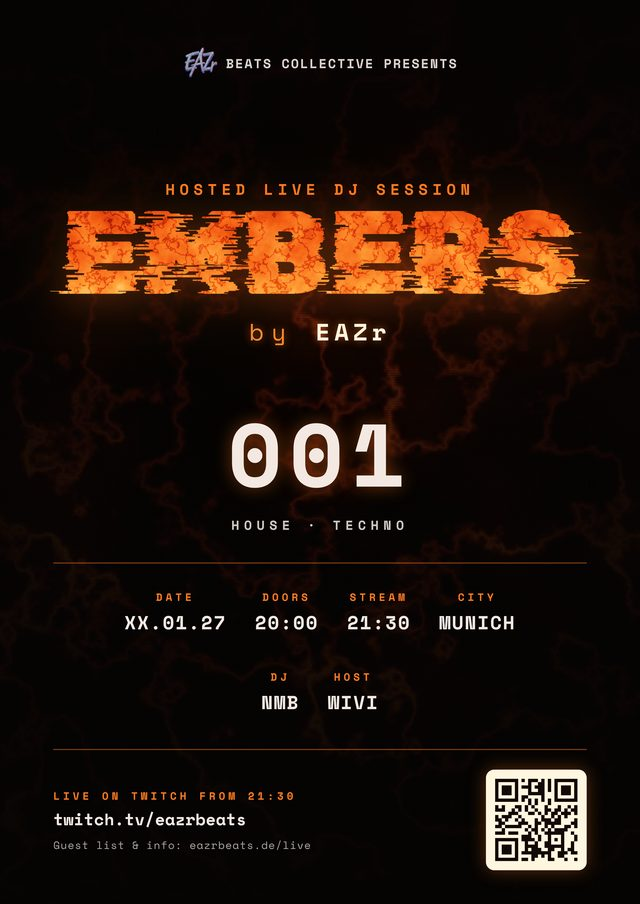
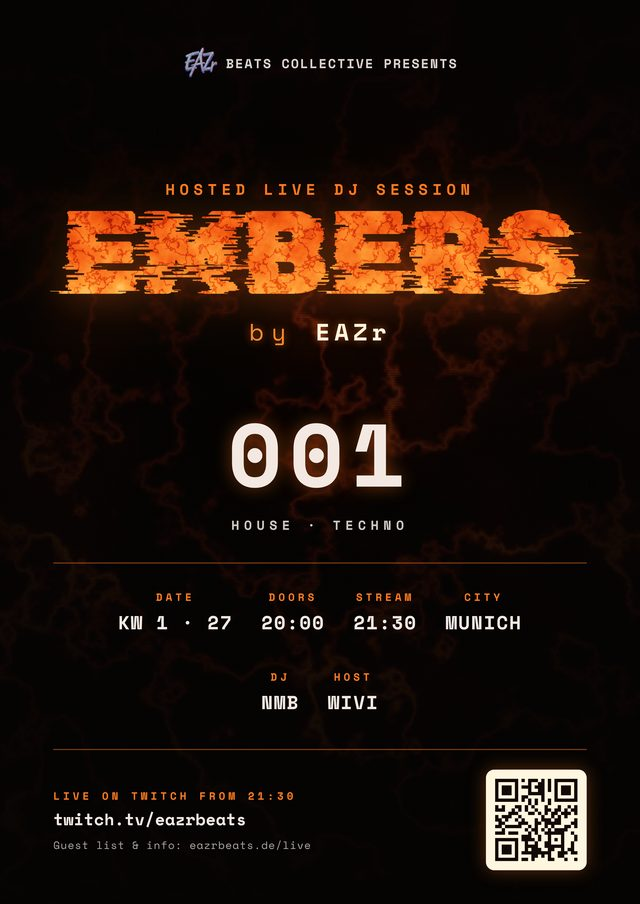
EMBERS 001: show calendar week (KW 1 / Week 1 2027) instead of masked date
Claude-Session: https://claude.ai/code/session_01TDnkxDwnAVCMLKD1imrut3

diff --git a/index.html b/index.html
@@ -114,12 +114,12 @@
     <h2>EMBERS 001</h2>
   </div>
   <div class="event-promo">
-    <a class="event-poster" href="live" aria-label="EMBERS 001 · Januar 2027 · Zur Live-Seite">
-      <img src="embers-001-poster-sm.jpg" srcset="embers-001-poster-sm.jpg 640w, embers-001-poster.jpg 1200w" sizes="(max-width: 700px) 90vw, 380px" alt="Plakat EMBERS 001: Hosted live DJ session, Januar 2027, Doors 20:00, Stream 21:30, München" width="640" height="904" loading="lazy">
+    <a class="event-poster" href="live" aria-label="EMBERS 001 · KW 1 2027 · Zur Live-Seite">
+      <img src="embers-001-poster-sm.jpg" srcset="embers-001-poster-sm.jpg 640w, embers-001-poster.jpg 1200w" sizes="(max-width: 700px) 90vw, 380px" alt="Plakat EMBERS 001: Hosted live DJ session, KW 1 2027, Doors 20:00, Stream 21:30, München" width="640" height="904" loading="lazy">
     </a>
     <div class="event-info">
       <span class="kicker"><span class="live-dot" aria-hidden="true"></span>LIVE LOADING</span>
-      <h3 class="event-date" data-i18n="eventDate">XX.01.2027 · München</h3>
+      <h3 class="event-date" data-i18n="eventDate">KW 1 · 2027 · München</h3>
       <p data-i18n="eventTimes">Einlass 20:00 · Stream ab 21:30 auf Twitch</p>
       <p data-i18n="eventMore">Location, Tickets und Gästeliste folgen auf Instagram und im Newsletter.</p>
       <div class="cta-row" style="justify-content:flex-start">
@@ -243,6 +243,6 @@
   </div>
 </footer>
 
-<script src="site.js?v=bac734c5"></script>
+<script src="site.js?v=cb32dcb1"></script>
 <script src="home.js?v=38e1cd8b"></script>
 </body></html>

diff --git a/live.html b/live.html
@@ -80,11 +80,11 @@
 
   <div class="booking-box live-box event-promo">
     <a class="event-poster" href="embers-001-poster.jpg" target="_blank" rel="noopener" aria-label="Plakat EMBERS 001 groß öffnen">
-      <img src="embers-001-poster-sm.jpg" srcset="embers-001-poster-sm.jpg 640w, embers-001-poster.jpg 1200w" sizes="(max-width: 700px) 90vw, 380px" alt="Plakat EMBERS 001: Hosted live DJ session, Januar 2027, Doors 20:00, Stream 21:30, München" width="640" height="904">
+      <img src="embers-001-poster-sm.jpg" srcset="embers-001-poster-sm.jpg 640w, embers-001-poster.jpg 1200w" sizes="(max-width: 700px) 90vw, 380px" alt="Plakat EMBERS 001: Hosted live DJ session, KW 1 2027, Doors 20:00, Stream 21:30, München" width="640" height="904">
     </a>
     <div class="event-info">
     <span class="kicker"><span class="live-dot" aria-hidden="true"></span>LIVE LOADING</span>
-    <h2 class="live-next">EMBERS 001 · XX.01.2027</h2>
+    <h2 class="live-next" data-i18n="liveNextDate">EMBERS 001 · KW 1 · 2027</h2>
     <p style="margin:0" data-i18n="eventTimes">Einlass 20:00 · Stream ab 21:30 auf Twitch</p>
     <p style="margin:0" data-i18n="liveNextText">Der genaue Tag, Location, Tickets und Gästeliste folgen zuerst auf Instagram und im Newsletter.</p>
     <div class="cta-row" style="justify-content:flex-start">
@@ -125,5 +125,5 @@
   </div>
 </footer>
 
-<script src="site.js?v=bac734c5"></script>
+<script src="site.js?v=cb32dcb1"></script>
 </body></html>

diff --git a/site.js b/site.js
@@ -95,7 +95,8 @@ const T = {
     liveNextKicker: 'Nächste Session',
     liveNextTba: 'EMBERS 001 · SOON',
     liveNextText: 'Der genaue Tag, Location, Tickets und Gästeliste folgen zuerst auf Instagram und im Newsletter.',
-    eventDate: 'XX.01.2027 · München',
+    eventDate: 'KW 1 · 2027 · München',
+    liveNextDate: 'EMBERS 001 · KW 1 · 2027',
     eventTimes: 'Einlass 20:00 · Stream ab 21:30 auf Twitch',
     eventMore: 'Der genaue Tag, Location, Tickets und Gästeliste folgen auf Instagram und im Newsletter.',
     liveWatch: '▶ Auf Twitch ansehen',
@@ -250,7 +251,8 @@ const T = {
     liveNextKicker: 'Next session',
     liveNextTba: 'EMBERS 001 · SOON',
     liveNextText: 'Exact day, venue, tickets and guest list drop first on Instagram and in the newsletter.',
-    eventDate: 'XX.01.2027 · Munich',
+    eventDate: 'Week 1 · 2027 · Munich',
+    liveNextDate: 'EMBERS 001 · Week 1 · 2027',
     eventTimes: 'Doors 20:00 · Stream from 21:30 on Twitch',
     eventMore: 'Exact day, venue, tickets and guest list drop first on Instagram and in the newsletter.',
     liveWatch: '▶ Watch on Twitch',

diff --git a/crate.html b/crate.html
@@ -102,6 +102,6 @@
   </div>
 </footer>
 
-<script src="site.js?v=bac734c5"></script>
+<script src="site.js?v=cb32dcb1"></script>
 <script src="crate.js?v=32f7cd5e"></script>
 </body></html>

diff --git a/void.html b/void.html
@@ -105,6 +105,6 @@
   </div>
 </footer>
 
-<script src="site.js?v=bac734c5"></script>
+<script src="site.js?v=cb32dcb1"></script>
 <script src="crate.js?v=32f7cd5e"></script>
 </body></html>

diff --git a/404.html b/404.html
@@ -103,5 +103,5 @@
   </div>
 </footer>
 
-<script src="site.js?v=bac734c5"></script>
+<script src="site.js?v=cb32dcb1"></script>
 </body></html>

diff --git a/about.html b/about.html
@@ -141,5 +141,5 @@
   </div>
 </footer>
 
-<script src="site.js?v=bac734c5"></script>
+<script src="site.js?v=cb32dcb1"></script>
 </body></html>

diff --git a/booking.html b/booking.html
@@ -134,5 +134,5 @@
   </div>
 </footer>
 
-<script src="site.js?v=bac734c5"></script>
+<script src="site.js?v=cb32dcb1"></script>
 </body></html>

diff --git a/kontakt.html b/kontakt.html
@@ -118,5 +118,5 @@
   </div>
 </footer>
 
-<script src="site.js?v=bac734c5"></script>
+<script src="site.js?v=cb32dcb1"></script>
 </body></html>

diff --git a/next.html b/next.html
@@ -127,5 +127,5 @@
   </div>
 </footer>
 
-<script src="site.js?v=bac734c5"></script>
+<script src="site.js?v=cb32dcb1"></script>
 </body></html>

diff --git a/tools/gen_pages.py b/tools/gen_pages.py
@@ -21,7 +21,7 @@ TWITCH = 'https://www.twitch.tv/eazrbeats'  # EMBERS live streams
 INSTA_EMBERS = 'https://www.instagram.com/eazrembers/'  # EMBERS sub-account, linked on /live
 # Next EMBERS session shown on /live. Empty = 'date TBA' text from site.js.
 # Example: LIVE_NEXT = 'EMBERS 001 · Fr 16.01.2027 · 21:00'
-LIVE_NEXT = 'EMBERS 001 · XX.01.2027'
+LIVE_NEXT = 'EMBERS 001 · KW 1 · 2027'
 BOOKING = 'booking@eazrbeats.de'  # nur hinter dem Booking-Button, nie sichtbar
 KONTAKT = 'kontakt@eazrbeats.de'
 NEWS = 'news@eazrbeats.de'
@@ -213,12 +213,12 @@ start = f'''<section class="hero" id="top">
     <h2>EMBERS 001</h2>
   </div>
   <div class="event-promo">
-    <a class="event-poster" href="live" aria-label="EMBERS 001 · Januar 2027 · Zur Live-Seite">
-      <img src="embers-001-poster-sm.jpg" srcset="embers-001-poster-sm.jpg 640w, embers-001-poster.jpg 1200w" sizes="(max-width: 700px) 90vw, 380px" alt="Plakat EMBERS 001: Hosted live DJ session, Januar 2027, Doors 20:00, Stream 21:30, München" width="640" height="904" loading="lazy">
+    <a class="event-poster" href="live" aria-label="EMBERS 001 · KW 1 2027 · Zur Live-Seite">
+      <img src="embers-001-poster-sm.jpg" srcset="embers-001-poster-sm.jpg 640w, embers-001-poster.jpg 1200w" sizes="(max-width: 700px) 90vw, 380px" alt="Plakat EMBERS 001: Hosted live DJ session, KW 1 2027, Doors 20:00, Stream 21:30, München" width="640" height="904" loading="lazy">
     </a>
     <div class="event-info">
       <span class="kicker"><span class="live-dot" aria-hidden="true"></span>LIVE LOADING</span>
-      <h3 class="event-date" data-i18n="eventDate">XX.01.2027 · München</h3>
+      <h3 class="event-date" data-i18n="eventDate">KW 1 · 2027 · München</h3>
       <p data-i18n="eventTimes">Einlass 20:00 · Stream ab 21:30 auf Twitch</p>
       <p data-i18n="eventMore">Location, Tickets und Gästeliste folgen auf Instagram und im Newsletter.</p>
       <div class="cta-row" style="justify-content:flex-start">
@@ -366,7 +366,7 @@ events = f'''<div class="band first">
       <p data-i18n="openAirText"></p>
     </div>
     <div class="card">
-      <span class="kicker">XX.01.2027 · München</span>
+      <span class="kicker">KW 1 · 2027 · München</span>
       <h3>EMBERS 001</h3>
       <p data-i18n="sessionsText"></p>
       <a class="btn ghost" href="live" data-i18n="liveBtn">Zur Live-Seite →</a>
@@ -551,7 +551,7 @@ kontakt = f'''<div class="band first">
 '''
 
 # ---------------- live (EMBERS) ----------------
-live_next = f'<h2 class="live-next">{LIVE_NEXT}</h2>' if LIVE_NEXT else '<h2 class="live-next" data-i18n="liveNextTba"></h2>'
+live_next = f'<h2 class="live-next" data-i18n="liveNextDate">{LIVE_NEXT}</h2>' if LIVE_NEXT else '<h2 class="live-next" data-i18n="liveNextTba"></h2>'
 live = f'''<div class="embers-bg" aria-hidden="true"></div>
 <div class="band first">
 <section class="sec" id="live">
@@ -567,7 +567,7 @@ live = f'''<div class="embers-bg" aria-hidden="true"></div>
 
   <div class="booking-box live-box event-promo">
     <a class="event-poster" href="embers-001-poster.jpg" target="_blank" rel="noopener" aria-label="Plakat EMBERS 001 groß öffnen">
-      <img src="embers-001-poster-sm.jpg" srcset="embers-001-poster-sm.jpg 640w, embers-001-poster.jpg 1200w" sizes="(max-width: 700px) 90vw, 380px" alt="Plakat EMBERS 001: Hosted live DJ session, Januar 2027, Doors 20:00, Stream 21:30, München" width="640" height="904">
+      <img src="embers-001-poster-sm.jpg" srcset="embers-001-poster-sm.jpg 640w, embers-001-poster.jpg 1200w" sizes="(max-width: 700px) 90vw, 380px" alt="Plakat EMBERS 001: Hosted live DJ session, KW 1 2027, Doors 20:00, Stream 21:30, München" width="640" height="904">
     </a>
     <div class="event-info">
     <span class="kicker"><span class="live-dot" aria-hidden="true"></span>LIVE LOADING</span>
